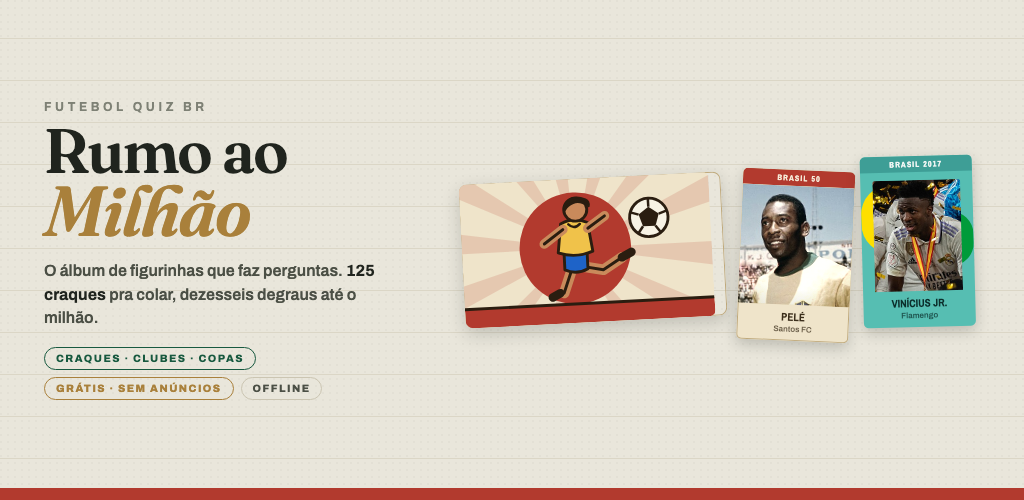
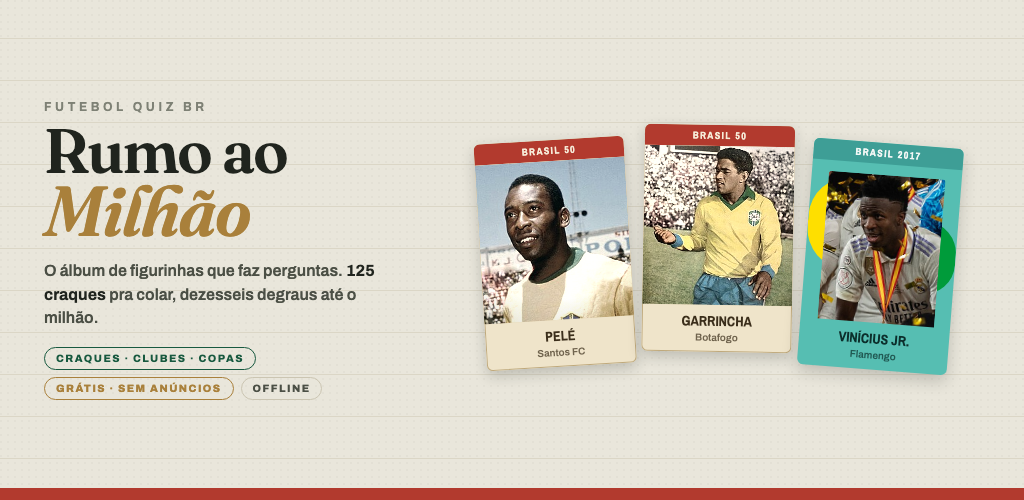
Lead the feature graphic with the figurinhas
The banner opened on the painted cover, which the app no longer does. It
was a hand copy of ART.cover() rather than a call to it, so deleting that
function left the banner rendering happily and quietly out of date — the
exact drift the page was written to prevent.

The cover card gives way to a third figurinha, so the fan is Pelé and
Garrincha on old stock and Vinícius Jr. on new: the album's two printings,
which is what the home screen leads with now. The stickers grow from 112px
to 150px to hold the space the cover had.

PLAY_STORE_LISTING.md also said to cut the screenshots at H=800. The set
on the listing is 1000x1800, which is H=900, so the recipe there is
corrected and says to pass H every time.

Claude-Session: https://claude.ai/code/session_01AeDN92YGYdCLcJmAVMuuVY

Changed region(s): [[0.4375, 0.24, 0.9688, 0.78]]

diff --git a/tools/feature_graphic.html b/tools/feature_graphic.html
@@ -8,7 +8,9 @@
          --screenshot=store-assets/feature-graphic.png \
          "file://$PWD/tools/feature_graphic.html"
      so it can be regenerated whenever the album changes, instead of
-     drifting away from the app the way the last one did. -->
+     drifting away from the app the way the last one did. The banner leads
+     with the figurinhas because the app's home screen does; it used to open
+     on a painted cover, and that cover is gone from both. -->
 <meta charset="utf-8">
 <link rel="preconnect" href="https://fonts.googleapis.com">
 <link rel="preconnect" href="https://fonts.gstatic.com" crossorigin>
@@ -42,21 +44,21 @@
   .chip-b{border-color:var(--brass);color:var(--brass)}
 
   .right{flex:1;display:flex;align-items:center;justify-content:center;gap:16px;position:relative}
-  .cover{width:262px;border-radius:8px;overflow:hidden;
-    box-shadow:inset 0 0 0 1px var(--retro-edge),0 6px 18px rgba(32,36,30,.2);transform:rotate(-3deg)}
-  .fan{display:flex;gap:10px}
-  .fig{width:112px;border-radius:5px;overflow:hidden;display:flex;flex-direction:column;
-    box-shadow:0 5px 14px rgba(32,36,30,.22)}
-  .fig:nth-child(1){transform:rotate(2.5deg) translateY(6px)}
-  .fig:nth-child(2){transform:rotate(-1.5deg) translateY(-8px)}
+  .fan{display:flex;gap:13px}
+  .fig{width:150px;border-radius:6px;overflow:hidden;display:flex;flex-direction:column;
+    box-shadow:0 6px 16px rgba(32,36,30,.22)}
+  /* a hand of three, spread the way they fall out of a packet */
+  .fig:nth-child(1){transform:rotate(-3.5deg) translateY(4px)}
+  .fig:nth-child(2){transform:rotate(1deg) translateY(-11px)}
+  .fig:nth-child(3){transform:rotate(4.5deg) translateY(7px)}
   .band{font-family:'Archivo Narrow',sans-serif;font-weight:700;text-transform:uppercase;
-    font-size:8px;letter-spacing:.14em;text-align:center;padding:3px 4px}
+    font-size:10px;letter-spacing:.14em;text-align:center;padding:4px 5px}
   .art{position:relative;overflow:hidden;aspect-ratio:1/1.06}
   .art img{width:100%;height:100%;object-fit:cover;object-position:top center;display:block}
-  .cap{padding:6px 4px 7px;text-align:center}
+  .cap{padding:8px 5px 9px;text-align:center}
   .nm{display:block;font-family:'Archivo Narrow',sans-serif;font-weight:700;
-    text-transform:uppercase;font-size:11px;line-height:1.15}
-  .sub{display:block;font-size:8px;font-weight:600;opacity:.7;margin-top:2px}
+    text-transform:uppercase;font-size:14px;line-height:1.15}
+  .sub{display:block;font-size:10px;font-weight:600;opacity:.7;margin-top:3px}
   .retro{background:var(--retro-card);color:var(--retro-ink);box-shadow:inset 0 0 0 1px var(--retro-edge),0 5px 14px rgba(32,36,30,.22)}
   .retro .band{background:var(--retro-band);color:#F6EBD8}
   .retro .art{background:var(--retro-card2)}
@@ -83,12 +85,16 @@
     </div>
   </div>
   <div class="right">
-    <div class="cover" id="cover"></div>
     <div class="fan">
       <div class="fig retro">
         <span class="band">Brasil 50</span>
         <span class="art"><img src="../img/d609af6f47604b15.jpg" alt=""></span>
         <span class="cap"><span class="nm">Pelé</span><span class="sub">Santos FC</span></span>
+      </div>
+      <div class="fig retro">
+        <span class="band">Brasil 50</span>
+        <span class="art"><img src="../img/fa4679be155093f7.jpg" alt=""></span>
+        <span class="cap"><span class="nm">Garrincha</span><span class="sub">Botafogo</span></span>
       </div>
       <div class="fig modern">
         <span class="band">Brasil 2017</span>
@@ -103,46 +109,3 @@
   </div>
 </div>
 <div class="foot"></div>
-<script>
-/* the same painted cover the app opens with */
-const rays = [...Array(14)].map((_, i) => {
-  const a1 = (i * 25.7) * Math.PI / 180, a2 = a1 + .17;
-  return `<path d="M118 72 L${118 + Math.cos(a1) * 190} ${72 + Math.sin(a1) * 190}
-    L${118 + Math.cos(a2) * 190} ${72 + Math.sin(a2) * 190} Z" fill="#B23A2E" opacity=".16"/>`;
-}).join('');
-const pent = [0, 72, 144, 216, 288].map(a =>
-  `<path d="M0 -11 L0 -20" stroke="#2A1D10" stroke-width="2.6" transform="rotate(${a})"/>`).join('');
-document.getElementById('cover').innerHTML = `
-<svg viewBox="0 0 260 150" width="250" style="display:block">
-  <defs><clipPath id="cc"><rect width="260" height="150" rx="6"/></clipPath></defs>
-  <g clip-path="url(#cc)">
-    <rect width="260" height="150" fill="#EFE4CA"/>
-    ${rays}
-    <circle cx="118" cy="72" r="58" fill="#B23A2E"/>
-    <g fill="none" stroke="#2A1D10" stroke-width="3" stroke-linecap="round" stroke-linejoin="round">
-      <path d="M114 92 L104 118" stroke="#C98A5B" stroke-width="11"/>
-      <path d="M114 92 L104 118" stroke-width="3"/>
-      <path d="M100 118 L92 122" stroke="#2A1D10" stroke-width="9"/>
-      <path d="M118 90 L146 96 L166 84" stroke="#C98A5B" stroke-width="11"/>
-      <path d="M118 90 L146 96 L166 84" stroke-width="3"/>
-      <path d="M166 84 L176 79" stroke="#2A1D10" stroke-width="9"/>
-      <path d="M106 76 h24 v18 q-12 6 -24 0 Z" fill="#1E63C8" stroke-width="3"/>
-      <path d="M104 46 q14 -7 28 0 l4 30 q-18 7 -36 0 Z" fill="#F0C24A" stroke-width="3"/>
-      <path d="M112 47 q6 6 12 0" stroke-width="2.6"/>
-      <path d="M106 52 L86 66" stroke="#C98A5B" stroke-width="10"/>
-      <path d="M106 52 L86 66" stroke-width="3"/>
-      <path d="M132 52 L150 40" stroke="#C98A5B" stroke-width="10"/>
-      <path d="M132 52 L150 40" stroke-width="3"/>
-      <circle cx="120" cy="32" r="12" fill="#C98A5B" stroke-width="3"/>
-      <path d="M109 28 q7 -13 22 -6 q4 2 3 7 q-9 -7 -16 -4 q-6 2 -9 7 Z" fill="#2A1D10" stroke-width="2.4"/>
-    </g>
-    <g transform="translate(196 44)">
-      <circle r="20" fill="#F7F2E4" stroke="#2A1D10" stroke-width="3"/>
-      <path d="M0 -11 L10.5 -3.4 L6.5 9 L-6.5 9 L-10.5 -3.4 Z" fill="#2A1D10"/>
-      ${pent}
-    </g>
-    <path d="M0 130 h260 v20 h-260 Z" fill="#B23A2E"/>
-    <path d="M0 130 h260" stroke="#2A1D10" stroke-width="3"/>
-  </g>
-</svg>`;
-</script>

diff --git a/PLAY_STORE_LISTING.md b/PLAY_STORE_LISTING.md
@@ -197,7 +197,7 @@ Steps when you're ready:
 
 ## Regenerating the screenshots
 
-    H=800 THEME=light python3 tools/shots.py \
+    H=900 THEME=light python3 tools/shots.py \
       shot-01-home shot-02-crests shot-03-question \
       shot-04-album shot-05-ficha shot-06-milhao
 
@@ -206,6 +206,10 @@ what the game actually looks like. `H` is the viewport height in CSS pixels
 (the shot is twice that, for retina) and `THEME` forces light or dark rather
 than following whatever the machine is set to — the listing uses light, because
 the paper album is the thing worth showing.
+
+Pass `H` every time. The set on the listing is 1000x1800, so it is `H=900`;
+shots.py's own default is 940, which silently produces a 1880-tall set that no
+longer matches the shots beside it.
 
 The order tells a story and should stay in it: what the app is, that the clubs
 are really in it, that the players are too, that there is an album to fill,
@@ -222,5 +226,7 @@ that a wrong answer teaches you something, and that the million is the point.
 
 The banner is a rendered page (`tools/feature_graphic.html`), not a hand-drawn
 file, for the same reason the screenshots are: the last one sat on the listing
-showing a design the app had stopped using. It carries the painted cover and one
-figurinha of each printing, so it changes when the album does.
+showing a design the app had stopped using. It carries three figurinhas — two of
+the old printing and one of the new — so it changes when the album does. It used
+to lead with the painted cover; that cover is gone from the app, so it is gone
+from here too.
